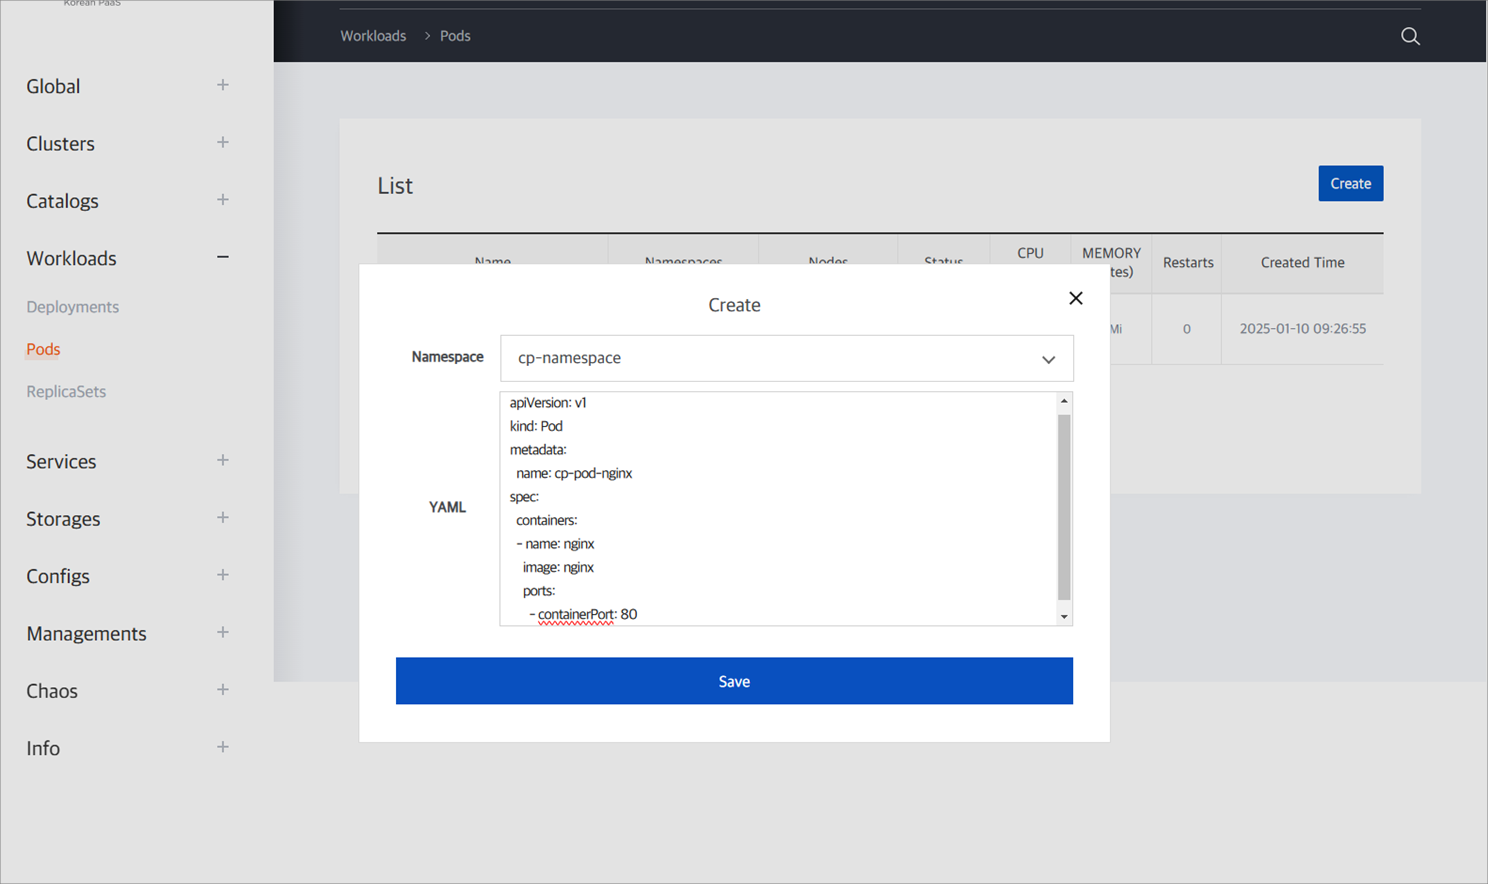
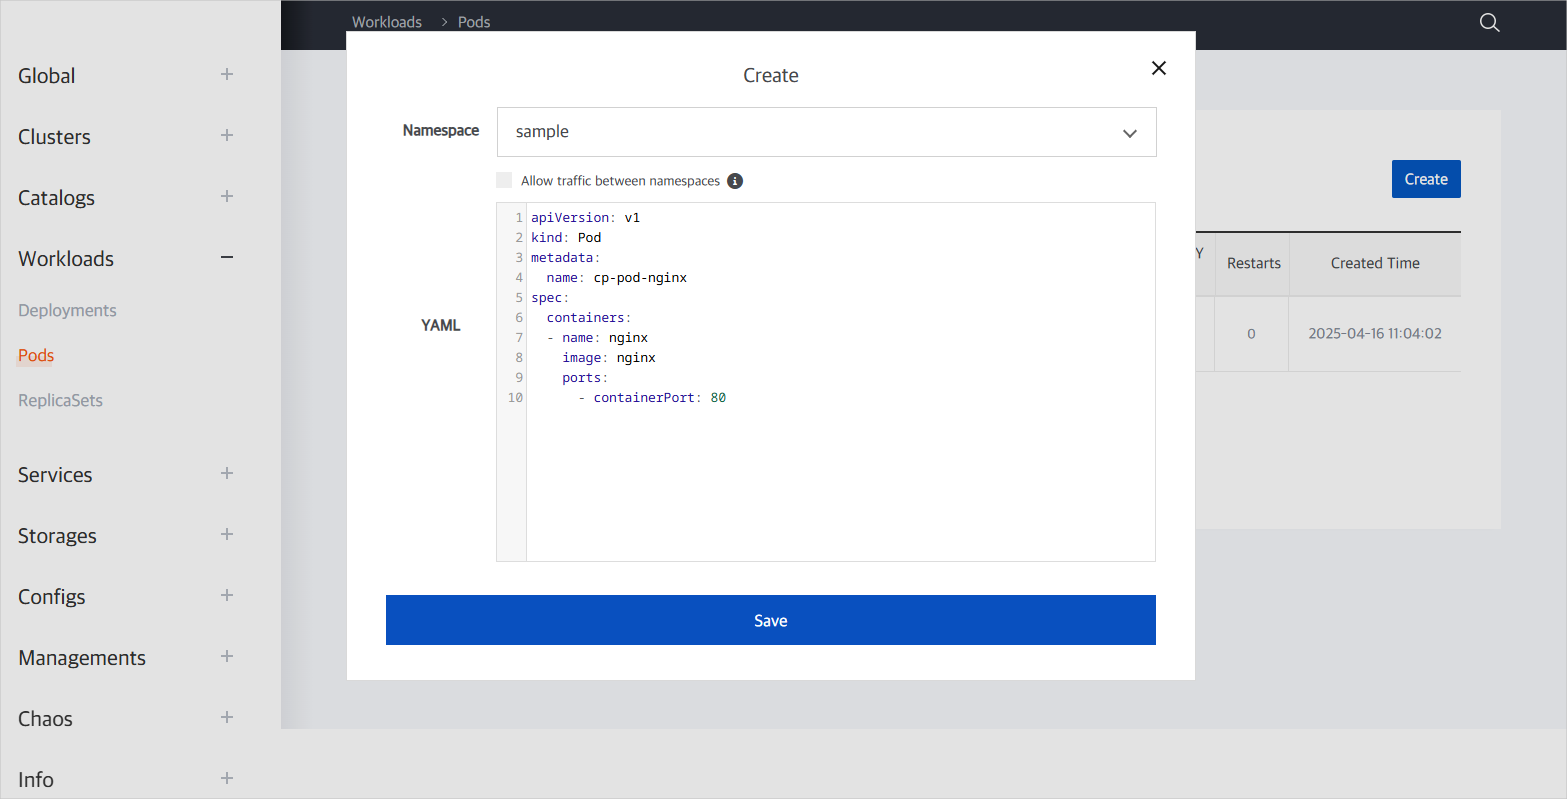
Update guide for v1.6.1

diff --git a/install-guide/portal/cp-portal-standalone-guide-mc.md b/install-guide/portal/cp-portal-standalone-guide-mc.md
@@ -104,7 +104,7 @@ The service information included and deployed in the container platform portal i
 |[Vault Secrets Operator](https://github.com/hashicorp/vault-secrets-operator)|0.9.0|0.9.0|
 |[MariaDB](https://github.com/mariadb)|11.4.3|19.0.7|
 |[Harbor](https://github.com/goharbor/harbor)|2.11.1|1.15.1|
-|[Keycloak](https://github.com/keycloak/keycloak)|25.0.4|22.2.1|
+|[Keycloak](https://github.com/keycloak/keycloak)|25.0.6|23.0.0|
 |[ChartMuseum](https://github.com/helm/chartmuseum)|0.16.2|3.10.3|
 |[Chaos Mesh](https://github.com/chaos-mesh/chaos-mesh)|2.7.0|2.7.0|
 
@@ -117,7 +117,7 @@ For container platform portal deployment, download the container platform portal
 :bulb: This will be done on the **Master Node**.
 
 + Download the Container Platform Portal Deployment file :
-  [cp-portal-deployment-v1.6.0.tar.gz](https://nextcloud.k-paas.org/index.php/s/ZcFt4cpeXj8d4o4/download)
+  [cp-portal-deployment-v1.6.1.tar.gz](https://nextcloud.k-paas.org/index.php/s/FQFddRC4wiq5cdj/download)
 
 ```bash
 # Create Path
@@ -125,13 +125,13 @@ $ mkdir -p ~/workspace/container-platform
 $ cd ~/workspace/container-platform
 
 # Download Deployment File and Verify File
-$ wget --content-disposition https://nextcloud.k-paas.org/index.php/s/ZcFt4cpeXj8d4o4/download
+$ wget --content-disposition https://nextcloud.k-paas.org/index.php/s/FQFddRC4wiq5cdj/download
 
 $ ls ~/workspace/container-platform
-  cp-portal-deployment-v1.6.0.tar.gz
+  cp-portal-deployment-v1.6.1.tar.gz
 
 # Decompress Deployment Files
-$ tar -xvf cp-portal-deployment-v1.6.0.tar.gz
+$ tar -xvf cp-portal-deployment-v1.6.1.tar.gz
 ```
 
 - Configure the Deployment File Directory
@@ -379,10 +379,10 @@ The administrator account needs to set the password initialization, so it is pre
 ### 1. View Keycloak Admin Account Information
 To check your Keycloak Admin account information, follow the command below.
 ```bash
-# check Keycloak Admin account 
-$ kubectl get cm cp-portal-configmap -n cp-portal -o yaml | grep KEYCLOAK_ADMIN
-KEYCLOAK_ADMIN_USERNAME: ********* (Username)
-KEYCLOAK_ADMIN_PASSWORD: ********* (Password)
+# Get Keycloak Admin Username
+$ kubectl get secret cp-portal-secret -n cp-portal -o jsonpath="{.data.KEYCLOAK_ADMIN_USERNAME}" | base64 -d; echo
+# Get Keycloak Admin Password
+$ kubectl get secret cp-portal-secret -n cp-portal -o jsonpath="{.data.KEYCLOAK_ADMIN_PASSWORD}" | base64 -d; echo
 ```
 
 <br>

diff --git a/install-guide/portal/cp-portal-standalone-guide.md b/install-guide/portal/cp-portal-standalone-guide.md
@@ -101,7 +101,7 @@ The service information included and deployed in the container platform portal i
 |[Vault Secrets Operator](https://github.com/hashicorp/vault-secrets-operator)|0.9.0|0.9.0|
 |[MariaDB](https://github.com/mariadb)|11.4.3|19.0.7|
 |[Harbor](https://github.com/goharbor/harbor)|2.11.1|1.15.1|
-|[Keycloak](https://github.com/keycloak/keycloak)|25.0.4|22.2.1|
+|[Keycloak](https://github.com/keycloak/keycloak)|25.0.6|23.0.0|
 |[ChartMuseum](https://github.com/helm/chartmuseum)|0.16.2|3.10.3|
 |[Chaos Mesh](https://github.com/chaos-mesh/chaos-mesh)|2.7.0|2.7.0|
 
@@ -114,7 +114,7 @@ For container platform portal deployment, download the container platform portal
 :bulb: This will be done on the **Master Node**.
 
 + Download the Container Platform Portal Deployment file :
-  [cp-portal-deployment-v1.6.0.tar.gz](https://nextcloud.k-paas.org/index.php/s/ZcFt4cpeXj8d4o4/download)
+  [cp-portal-deployment-v1.6.1.tar.gz](https://nextcloud.k-paas.org/index.php/s/FQFddRC4wiq5cdj/download)
 
 ```bash
 # Create Path
@@ -122,13 +122,13 @@ $ mkdir -p ~/workspace/container-platform
 $ cd ~/workspace/container-platform
 
 # Download Deployment File and Verify File
-$ wget --content-disposition https://nextcloud.k-paas.org/index.php/s/ZcFt4cpeXj8d4o4/download
+$ wget --content-disposition https://nextcloud.k-paas.org/index.php/s/FQFddRC4wiq5cdj/download
 
 $ ls ~/workspace/container-platform
-  cp-portal-deployment-v1.6.0.tar.gz
+  cp-portal-deployment-v1.6.1.tar.gz
 
 # Decompress Deployment Files
-$ tar -xvf cp-portal-deployment-v1.6.0.tar.gz
+$ tar -xvf cp-portal-deployment-v1.6.1.tar.gz
 ```
 
 - Configure the Deployment File Directory
@@ -372,10 +372,10 @@ The administrator account needs to set the password initialization, so it is pre
 ### 1. View Keycloak Admin Account Information
 To check your Keycloak Admin account information, follow the command below.
 ```bash
-# check Keycloak Admin account 
-$ kubectl get cm cp-portal-configmap -n cp-portal -o yaml | grep KEYCLOAK_ADMIN
-KEYCLOAK_ADMIN_USERNAME: ********* (Username)
-KEYCLOAK_ADMIN_PASSWORD: ********* (Password)
+# Get Keycloak Admin Username
+$ kubectl get secret cp-portal-secret -n cp-portal -o jsonpath="{.data.KEYCLOAK_ADMIN_USERNAME}" | base64 -d; echo
+# Get Keycloak Admin Password
+$ kubectl get secret cp-portal-secret -n cp-portal -o jsonpath="{.data.KEYCLOAK_ADMIN_PASSWORD}" | base64 -d; echo
 ```
 
 <br>

diff --git a/use-guide/portal/cp-portal-use-guide-workloads.md b/use-guide/portal/cp-portal-use-guide-workloads.md
@@ -27,6 +27,33 @@
 <br>
 
 ## <div id='1'/> 1. Workloads Menu
+K-PaaS standard model’s single-cloud deployment (default installation) comes with a default Kyverno-based network isolation policy applied.
+According to this policy, Pod-to-Pod traffic between namespaces is blocked by default. However, if inter-service communication across namespaces is required, an additional configuration must be applied to allow it.
+
+#### How to Allow Cross-Namespace Communication
+By default, the network policy blocks traffic between namespaces.
+However, communication can be allowed if a specific label is set on the Pod.
+- `cp-role=shared`
+    + This label must be set for the Pod to communicate with other namespaces
+    + If the label is not present, the default policy blocks the traffic
+
+#### Setting the Label via Portal UI
+When creating a Deployment, ReplicaSet, or Pod in the Workloads menu, you can use the following option to automatically add the required label.
+
+##### Steps
+1. In the resource list view, click the [Create] button
+2. Check the option “Allow traffic between namespaces”
+3. Upon creation, the Pod will automatically have the `cp-role=shared` label attached
+
+![IMG_3_4_1]
+
+##### How to Verify
+After the resource is created, you can verify the label from the Labels section in the Pod detail view.
+
+![IMG_3_4_2]
+
+<br>
+
 ### <div id='1-1'/> 1.1. Deployments
 #### <div id='1-1-1'/> 1.1.1. Get a list of deployments
 - Click Deployments in Workloads to go to the Deployments list page.
@@ -139,3 +166,5 @@
 [IMG_3_3_3]:../images/portal/IMG_3_3_3.png
 [IMG_3_3_4]:../images/portal/IMG_3_3_4.png
 [IMG_3_3_5]:../images/portal/IMG_3_3_5.png
+[IMG_3_4_1]:../images/portal/IMG_3_4_1.png
+[IMG_3_4_2]:../images/portal/IMG_3_4_2.png

diff --git a/install-guide/csp/cp-csp-istio-guide.md b/install-guide/csp/cp-csp-istio-guide.md
@@ -129,7 +129,7 @@ We provide an example of configuring a multi cluster environment based on three 
 To install Istio Multi Cluster, download the Container Platform Portal Deployment and locate it at the path below.<br>
 
 + Download the Container Platform Portal Deployment file :
-  [cp-portal-deployment-v1.6.0.tar.gz](https://nextcloud.k-paas.org/index.php/s/ZcFt4cpeXj8d4o4/download)
+  [cp-portal-deployment-v1.6.1.tar.gz](https://nextcloud.k-paas.org/index.php/s/FQFddRC4wiq5cdj/download)
 
 ```bash
 # Create Path
@@ -137,13 +137,13 @@ $ mkdir -p ~/workspace/container-platform
 $ cd ~/workspace/container-platform
 
 # Download Deployment File and Verify File
-$ wget --content-disposition https://nextcloud.k-paas.org/index.php/s/ZcFt4cpeXj8d4o4/download
+$ wget --content-disposition https://nextcloud.k-paas.org/index.php/s/FQFddRC4wiq5cdj/download
 
 $ ls ~/workspace/container-platform
-  cp-portal-deployment-v1.6.0.tar.gz
+  cp-portal-deployment-v1.6.1.tar.gz
 
 # Decompress Deployment Files
-$ tar -xvf cp-portal-deployment-v1.6.0.tar.gz
+$ tar -xvf cp-portal-deployment-v1.6.1.tar.gz
 ```
 
 <br>
@@ -570,7 +570,7 @@ sleep-5577c64d7c-9zg7w   2/2     Running   0          74s
 ```bash
 # Access to cluster3's sleep pod 
 $ kubectl exec -it -n sample --context="${CLUSTER3_CONFIG[CTX]}" \
-"$(kubectl get pod -n sample --context="${CLUSTER3_CONFIG[CTX]}" -l app=sleep -o jsonpath='{.items[0].metadata.name}')" -c sleep sh
+"$(kubectl get pod -n sample --context="${CLUSTER3_CONFIG[CTX]}" -l app=sleep -o jsonpath='{.items[0].metadata.name}')" -c sleep -- sh
 
 # curl reviews service
 ~ $ curl reviews:9080/reviews/1

diff --git a/install-guide/source-control/cp-source-control-standalone-guide.md b/install-guide/source-control/cp-source-control-standalone-guide.md
@@ -73,7 +73,7 @@ Download the Deployment file for your Container Platform source control deployme
 > For multi-cluster environments, proceed on the cluster you specified as **Cluster1** when deploying the Container Platform Portal.
 
 + Download Container Platform Source Control Deployment File:
-  [cp-source-control-deployment-v1.6.0.tar.gz](https://nextcloud.k-paas.org/index.php/s/dkfdTd6zttpi3T2/download)
+  [cp-source-control-deployment-v1.6.1.tar.gz](https://nextcloud.k-paas.org/index.php/s/faHjJRM7tiyLTBj/download)
 
 ```bash
 # Create a path to download the Deployment file
@@ -81,13 +81,13 @@ $ mkdir -p ~/workspace/container-platform
 $ cd ~/workspace/container-platform
 
 # Download the Deployment file and verify the file path
-$ wget --content-disposition https://nextcloud.k-paas.org/index.php/s/dkfdTd6zttpi3T2/download
+$ wget --content-disposition https://nextcloud.k-paas.org/index.php/s/faHjJRM7tiyLTBj/download
 
 $ ls ~/workspace/container-platform
-  cp-source-control-deployment-v1.6.0.tar.gz ...
+  cp-source-control-deployment-v1.6.1.tar.gz ...
   
 # Extract the Deployment file
-$ tar -xvf cp-source-control-deployment-v1.6.0.tar.gz
+$ tar -xvf cp-source-control-deployment-v1.6.1.tar.gz
 ```
 
 - Configure the Deployment file directory

diff --git a/install-guide/pipeline/cp-pipeline-standalone-guide.md b/install-guide/pipeline/cp-pipeline-standalone-guide.md
@@ -105,7 +105,7 @@ For container platform pipeline deployment, download the container platform pipe
 > In the case of a multi-cluster environment, proceed with the cluster that was designated as **Cluster1** when deploying the container platform portal.
 
 +  Download the Container Platform Pipeline Deployment file :
-   [cp-pipeline-deployment-v1.6.0.tar.gz](https://nextcloud.k-paas.org/index.php/s/QZcw7ALyL7ReQmn/download)
+   [cp-pipeline-deployment-v1.6.1.tar.gz](https://nextcloud.k-paas.org/index.php/s/r8qWAadGoAHNcBn/download)
 
 ```bash
 # Create Path
@@ -113,13 +113,13 @@ $ mkdir -p ~/workspace/container-platform
 $ cd ~/workspace/container-platform
 
 # Download Deployment File and Verify File
-$ wget --content-disposition https://nextcloud.k-paas.org/index.php/s/QZcw7ALyL7ReQmn/download
+$ wget --content-disposition https://nextcloud.k-paas.org/index.php/s/r8qWAadGoAHNcBn/download
 
 $ ls ~/workspace/container-platform
-  cp-pipeline-deployment-v1.6.0.tar.gz ...
+  cp-pipeline-deployment-v1.6.1.tar.gz ...
   
 # Decompress Deployment Files
-$ tar -xvf cp-pipeline-deployment-v1.6.0.tar.gz
+$ tar -xvf cp-pipeline-deployment-v1.6.1.tar.gz
 ```
 
 - Configure the Deployment File Directory

diff --git a/use-guide/portal/container-platform-portal-guide-en.md b/use-guide/portal/container-platform-portal-guide-en.md
@@ -77,7 +77,6 @@ See the guide below to create a subcluster after completing the setup.
 ## <div id='3'>3. Access the Container Platform Portal
 Access the Container Platform portal.<br><br>
 **Container Platform Portal URL** : `http://portal.${HOST_DOMAIN}`
-+ Enter the value of `HOST_DOMAIN` as defined in [[3.1.2. Defining Container Platform Portal variables]] (..//portal/cp-portal-standalone-guide.md#3.1.2)
 
 <br>
 
@@ -91,10 +90,10 @@ Administrator accounts require a password reset setting, so preprocess them as d
 ### 1. Get Keycloak Admin account information
 To check the Keycloak Admin account information, execute the command below.
 ```bash
-# Get Keycloak Admin account
-$ kubectl get cm cp-portal-configmap -n cp-portal -o yaml | grep KEYCLOAK_ADMIN
-KEYCLOAK_ADMIN_USERNAME: ********* (Username)
-KEYCLOAK_ADMIN_PASSWORD: ********* (Password)
+# Get Keycloak Admin Username
+$ kubectl get secret cp-portal-secret -n cp-portal -o jsonpath="{.data.KEYCLOAK_ADMIN_USERNAME}" | base64 -d; echo
+# Get Keycloak Admin Password
+$ kubectl get secret cp-portal-secret -n cp-portal -o jsonpath="{.data.KEYCLOAK_ADMIN_PASSWORD}" | base64 -d; echo
 ```
 
 <br>

diff --git a/use-guide/pipeline/cp-pipeline-use-guide.md b/use-guide/pipeline/cp-pipeline-use-guide.md
@@ -119,17 +119,11 @@ This document is a usage guide about how users will use the Container Platform P
 # <div id='2'/> 2. Container Platform Pipeline Access
 ## <div id='2-1'/> 2.1 Container Platform Pipeline Access Description
 Connect to the container platform pipeline.<br><br>
-1. **Container Platform Pipeline URL** : `http://pipeline.${HOST_DOMAIN}`
+**Container Platform Pipeline URL** : `http://pipeline.${HOST_DOMAIN}`
 + Enter the `HOST_DOMAIN` value defined in [[Container platform pipeline variable definitions]](../../install-guide/pipeline/cp-pipeline-standalone-guide.md#3.2)
 
-2. After checking the initial information for accessing the container platform pipeline, log in to the pipeline.
-   > Check the initial account information using the command below
-   ```
-   $ kubectl get configmap -n cp-portal cp-portal-configmap -o yaml | grep KEYCLOAK_ADMIN
-   ```
-
-   ![image](../images/pipeline/IMG_2_1_1.png)
-   ![image](../images/pipeline/IMG_2_1_2.png)
+![image](../images/pipeline/IMG_2_1_1.png)
+![image](../images/pipeline/IMG_2_1_2.png)
 
 <br>
 

diff --git a/use-guide/portal/cp-portal-use-guide-access.md b/use-guide/portal/cp-portal-use-guide-access.md
@@ -23,10 +23,10 @@ Administrator accounts require a password reset setting, so preprocess them as d
 ### 1. Get Keycloak Admin account information
 To check the Keycloak Admin account information, execute the command below.
 ```bash
-# Get Keycloak Admin account
-$ kubectl get cm cp-portal-configmap -n cp-portal -o yaml | grep KEYCLOAK_ADMIN
-KEYCLOAK_ADMIN_USERNAME: ********* (Username)
-KEYCLOAK_ADMIN_PASSWORD: ********* (Password)
+# Get Keycloak Admin Username
+$ kubectl get secret cp-portal-secret -n cp-portal -o jsonpath="{.data.KEYCLOAK_ADMIN_USERNAME}" | base64 -d; echo
+# Get Keycloak Admin Password
+$ kubectl get secret cp-portal-secret -n cp-portal -o jsonpath="{.data.KEYCLOAK_ADMIN_PASSWORD}" | base64 -d; echo
 ```
 
 <br>
